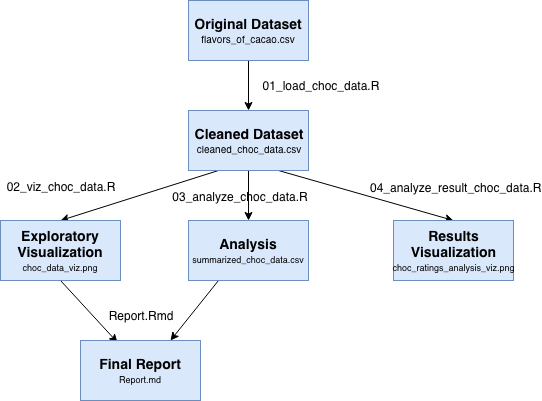
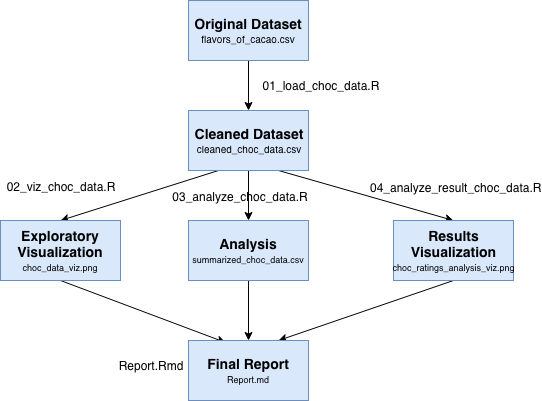
updated README with new usage commands for Make and Docker; updated flowchart; fixed Makefile comments

diff --git a/README.md b/README.md
@@ -23,18 +23,38 @@ Since [Venezuela is one of the largest producers of the Criollo bean, which is c
 
 ## Usage
 
-You can reproduce our analysis with the following steps:
+You can reproduce our analysis in one of two ways with the following steps:
 
-1. Clone this repo and, using the command line, navigate to the root of this project.
+### With Docker
 
-2. Run the below commands in bash in the order listed:
+1. Clone/download this repository and, using the command line, navigate to the root of this project.
+
+2. Run the below command in bash (filling in PATH_ON_YOUR_COMPUTER with the absolute path to the root of this project on your computer):
 
 ```
-Rscript src/01_load_choc_data.R data/flavors_of_cacao.csv data/cleaned_choc_data.csv
-Rscript src/02_viz_choc_data.R data/cleaned_choc_data.csv results/choc_data_viz.png
-Rscript src/03_analyze_choc_data.R data/cleaned_choc_data.csv results/summarized_choc_data.csv
-Rscript src/04_analyze_result_choc_data.R data/cleaned_choc_data.csv results/choc_ratings_analysis_viz.png
-Rscript -e "rmarkdown::render('doc/Report.Rmd')"
+docker run --rm -v PATH_ON_YOUR_COMPUTER:/home/choc_analysis rachelkriggs/dsci_522-chocolate_ratings_analysis make -C '/home/choc_analysis' all
+```
+
+3. To clean up the analysis:
+
+```
+docker run --rm -v PATH_ON_YOUR_COMPUTER:/home/choc_analysis rachelkriggs/dsci_522-chocolate_ratings_analysis make -C '/home/choc_analysis' clean
+```
+
+### Without Docker
+
+1. Clone/download this repository and, using the command line, navigate to the root of this project.
+
+2. Run the below command in bash:
+
+```
+make all
+```
+
+3. To clean up the analysis:
+
+```
+make clean
 ```
 
 ## Usage Flow Chart

diff --git a/doc/Report.md b/doc/Report.md
@@ -1,7 +1,7 @@
 Chocolate Bar Rating Analysis Report
 ================
 Rachel K. Riggs and Carrie Cheung
-<br>30 November, 2018
+<br>07 December, 2018
 
 Data
 ----
@@ -64,7 +64,7 @@ We also computed the sample test statistic (`delta_star`), a 95% confidence inte
 
 |  delta star|    lower CI|   upper CI|  p-value|
 |-----------:|-----------:|----------:|--------:|
-|   0.0572017|  -0.0669535|  0.0665467|   0.0923|
+|   0.0572017|  -0.0669535|  0.0678817|   0.0957|
 
 The null hypothesis distribution is visualized below as a histogram overlaid with the sample test statistic in red to show where it fell in relation to our confidence interval:
 
